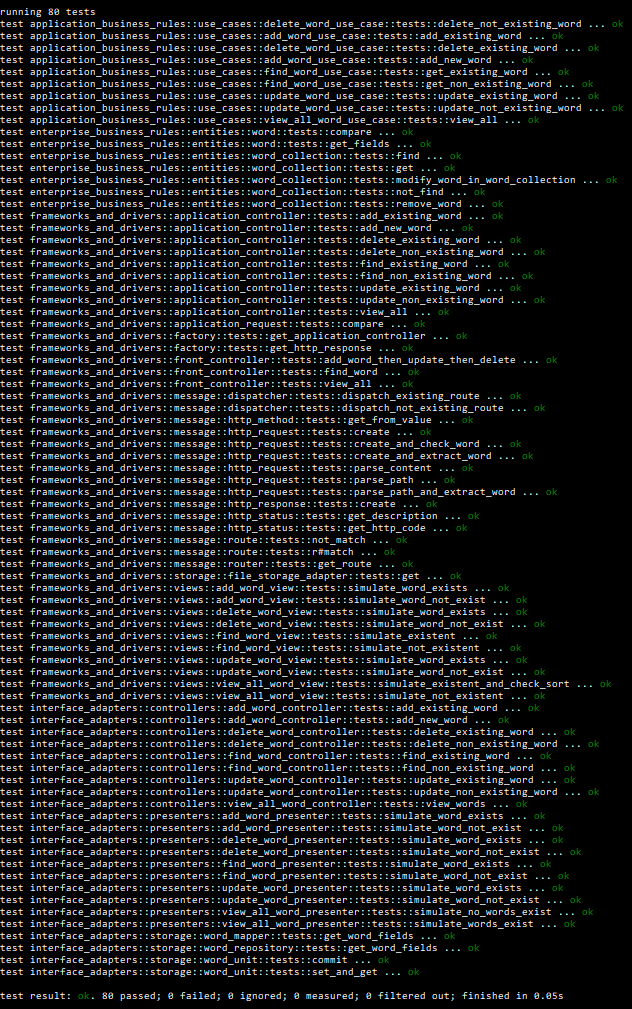
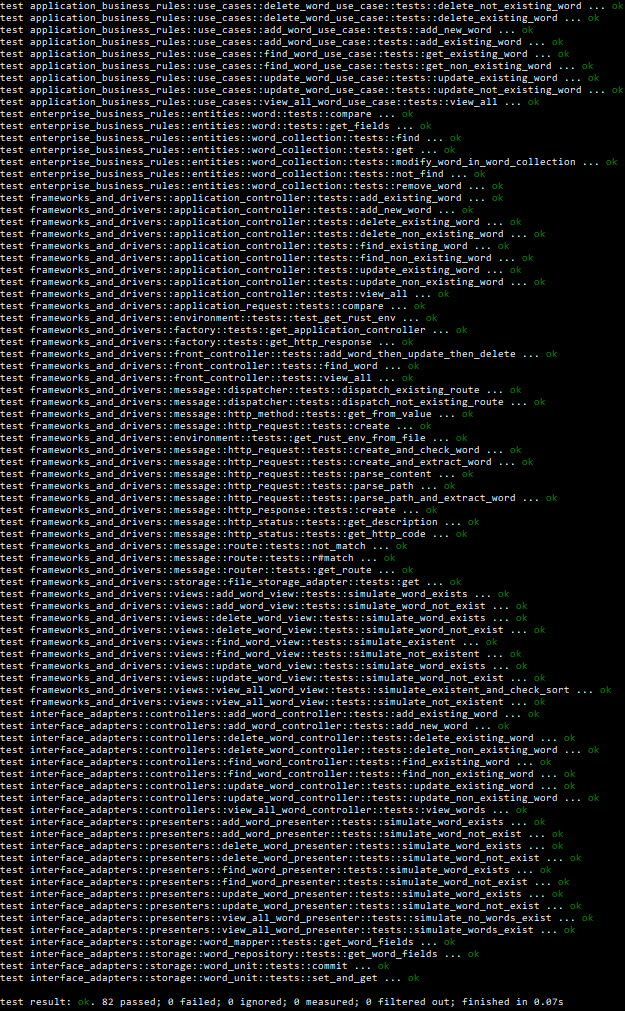
update

diff --git a/src/main.rs b/src/main.rs
@@ -1,6 +1,7 @@
 //@author Stanislav Polaniev <spolanyev@gmail.com>
 
 use dictionary::application_business_rules::interfaces::word_unit_interface::WordUnitInterface;
+use dictionary::frameworks_and_drivers::environment::Environment;
 use dictionary::frameworks_and_drivers::factory::Factory;
 use dictionary::frameworks_and_drivers::front_controller::FrontController;
 use dictionary::frameworks_and_drivers::interfaces::dispatcher_interface::DispatcherInterface;
@@ -19,9 +20,13 @@ use dictionary::frameworks_and_drivers::message::router::Router;
 use dictionary::interface_adapters::storage::word_unit::WordUnit;
 use std::net::TcpListener;
 use std::sync::{Arc, Condvar, Mutex};
-use std::thread;
+use std::{env, thread};
 
 fn main() {
+    if env::var("RUST_ENV").is_err() {
+        env::set_var("RUST_ENV", Environment::get_rust_env(".env"));
+    }
+
     let factory: Box<dyn FactoryInterface> = Box::new(Factory::new());
     let dispatcher: Box<dyn DispatcherInterface> = Box::new(Dispatcher::new(factory));
     let word_unit: Box<dyn WordUnitInterface> = Box::new(WordUnit::new());
@@ -76,14 +81,14 @@ fn main() {
                     });
 
                     if let Err(error) = handle.join() {
-                        println!("Thread panicked, error is `{:#?}`", error);
+                        println!("Thread panicked, error is `{error:#?}`");
                     }
 
                     *connections -= 1;
                     semaphore.notify_one();
                 });
             }
-            Err(error) => println!("Connection failed, error is `{:#?}`", error),
+            Err(error) => println!("Connection failed, error is `{error:#?}`"),
         }
     }
 }

diff --git a/tests/get_health_page.rs b/tests/get_health_page.rs
@@ -1,0 +1,45 @@
+//@author Stanislav Polaniev <spolanyev@gmail.com>
+
+use std::process::Command;
+use std::thread;
+use std::time::Duration;
+
+#[test]
+fn get_health_page() {
+    //set env=dev
+    let mut cargo = Command::new("cargo");
+    if let Ok(mut child) = cargo.arg("run").env("RUST_ENV", "development").spawn() {
+        thread::sleep(Duration::from_secs(1)); //time to start server
+
+        let curl_output = Command::new("curl")
+            .arg("http://localhost/health")
+            .output()
+            .expect("Failed to execute command");
+        let page = String::from_utf8(curl_output.stdout.as_slice().to_owned())
+            .expect("Failed to convert to String");
+
+        child.kill().expect("Failed to stop cargo");
+
+        assert_eq!("200 OK\nRUST_ENV=development\n", page);
+    } else {
+        assert!(false);
+    }
+    //set env=prod
+    let mut cargo = Command::new("cargo");
+    if let Ok(mut child) = cargo.arg("run").env("RUST_ENV", "production").spawn() {
+        thread::sleep(Duration::from_secs(1)); //time to start server
+
+        let curl_output = Command::new("curl")
+            .arg("http://localhost/health")
+            .output()
+            .expect("Failed to execute command");
+        let page = String::from_utf8(curl_output.stdout.as_slice().to_owned())
+            .expect("Failed to convert to String");
+
+        child.kill().expect("Failed to stop cargo");
+
+        assert_eq!("200 OK\nRUST_ENV=production\n", page);
+    } else {
+        assert!(false);
+    }
+}

diff --git a/tests/get_word.rs b/tests/get_word.rs
@@ -6,8 +6,8 @@ use std::time::Duration;
 
 #[test]
 fn get() {
-    let mut cargo_run = Command::new("cargo");
-    if let Ok(mut child) = cargo_run.arg("run").spawn() {
+    let mut cargo = Command::new("cargo");
+    if let Ok(mut child) = cargo.arg("run").spawn() {
         thread::sleep(Duration::from_secs(1)); //time to start server
 
         let curl_output = Command::new("curl")
@@ -34,7 +34,7 @@ fn get() {
 
         child.kill().expect("Failed to stop cargo");
 
-        assert!(found.starts_with("testworda\n1000\nлебедь"));
+        assert!(found.starts_with("testworda<br \\>\n1000<br \\>\nлебедь"));
         assert!(not_found.starts_with("Word \"notexistant\" is not found"));
         assert!(bad_request.starts_with("HTTP/1.1 400 Bad Request"));
     } else {

diff --git a/tests/add_word.rs b/tests/add_word.rs
@@ -6,8 +6,8 @@ use std::time::Duration;
 
 #[test]
 fn add_update_delete() {
-    let mut cargo_run = Command::new("cargo");
-    if let Ok(mut child) = cargo_run.arg("run").spawn() {
+    let mut cargo = Command::new("cargo");
+    if let Ok(mut child) = cargo.arg("run").spawn() {
         thread::sleep(Duration::from_secs(1)); //time to start server
 
         //sure not exist
